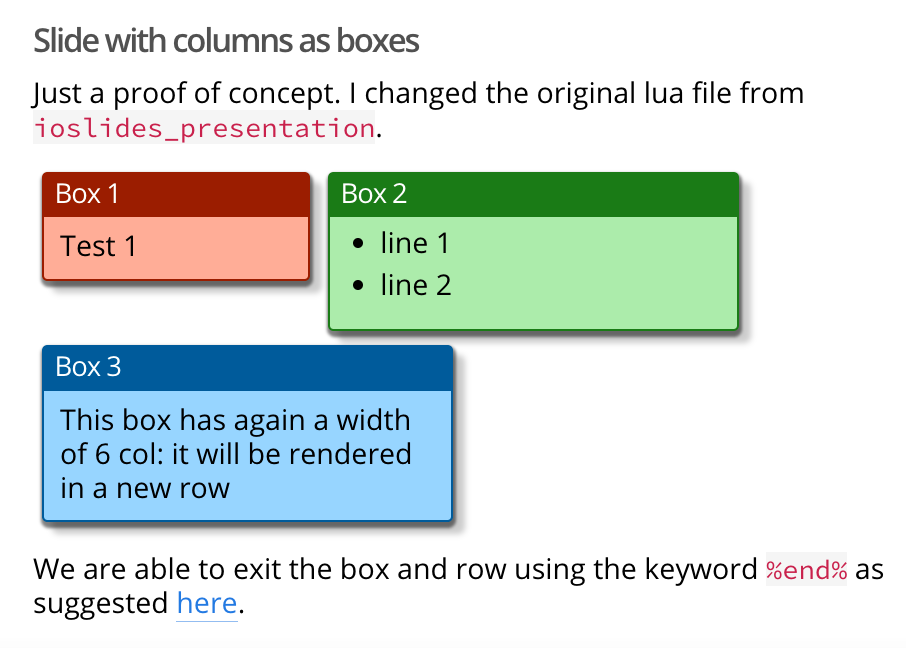
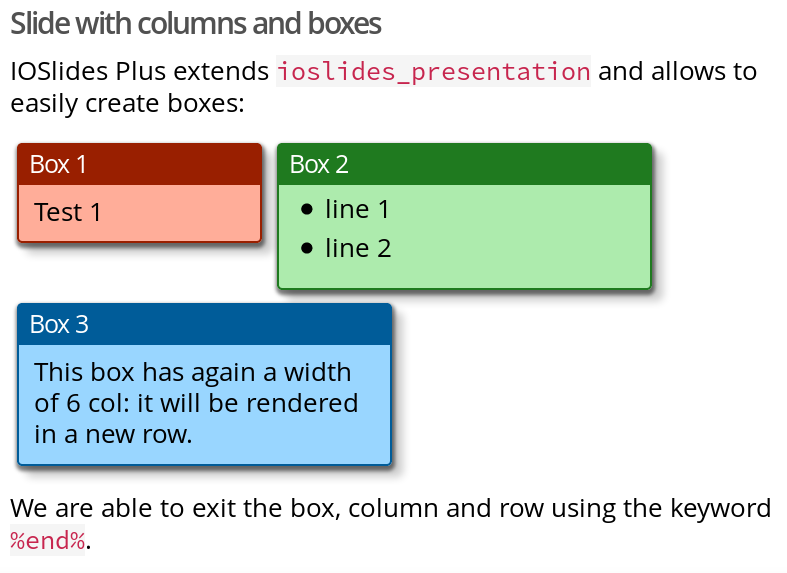
update README with box-x shortcut

Changed region(s): [[0.0, 0.0, 0.9759, 0.8307], [0.0, 0.8604, 0.9759, 0.9791]]

diff --git a/README.md b/README.md
@@ -31,26 +31,26 @@ In **Rstudio**, create a new `Rmd` &gt; From template &gt; IOSlides Plus
 
 The following `Rmd` code
 
-    ## Slide with columns as boxes
+    ## Slide with columns and boxes
 
-    Just a proof of concept. I changed the original lua file from `ioslides_presentation`.
+    IOSlides Plus extends `ioslides_presentation` and allows to easily create boxes:
 
-    ### Box 1{.col-4 .box .bg-red}
+    ### Box 1{.box-4 .bg-red}
 
     Test 1
 
-    ### Box 2{.col-6 .box .bg-green}
+    ### Box 2{.box-6 .bg-green}
 
     - line 1
     - line 2
 
-    ### Box 3{.col-6 .box .bg-blue}
+    ### Box 3{.box-6 .bg-blue}
 
-    This box has again a width of 6 col: it will be rendered in a new row
+    This box has again a width of 6 col: it will be rendered in a new row.
 
     %end%
 
-    We are able to exit the box and row using the keyword `%end%` as suggested [here](https://github.com/koncina/iosp/issues/5).
+    We are able to exit the box, column and row using the keyword `%end%`.
 
 will produce the output:
 
